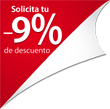
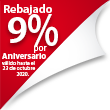
se pone otro imatgen descuento

diff --git a/public/assets/js/pages/products.js b/public/assets/js/pages/products.js
@@ -182,32 +182,17 @@ function reloadProducts() {
         $.each(response, function (i,e) {
             var discount = "";
             if(e.hasOwnProperty('discount')){
-                discount = '<div class="ribbon ribbon-top-right" style="display: block"><span>Oferta</span></div>';
+                // discount = '<div class="ribbon ribbon-top-right" style="display: block"><span>Oferta</span></div>';
+                discount=  '<img src="'+ruta+'assets/images/otros/9aniospestania.png" style="width: 80px;position: absolute;top: 0;left: 0;">';
             }
             var dNone = "";
             if(i>7){
                 dNone = "d-none";
             }
-       /*     var item = '<div class="card shadow-sm product-item col-sm-6 col-md-4 col-lg-3 p-0 mt-2 '+dNone+'" style="border-radius: 5px;overflow: hidden;">' +
+            var item = '<div class="card shadow-sm product-item col-sm-6 col-md-4 col-lg-3 p-0 mt-2 '+dNone+'" style="border-radius: 5px;overflow: hidden;">' +
                 '                                <a href="'+ruta+'catalogo/'+e.brand.toLowerCase().replace(" ", "-")+'/'+e.productType.toLowerCase()+'-'+e.brand.toLowerCase().replace(" ", "-")+'-'+e.mpn.toLowerCase()+'">' +
                 '                                    ' + discount +
                 '                                    <div class="product-image" style="height: 205px">' +
-                '                                        <img style="max-width: 80%; max-height: 100%;"' +
-                '                                             src="'+ruta+e.images[0].medium+'"' +
-                '                                             title="'+e.name+'" alt="'+e.name+'">' +
-                '                                    </div>';*/
-            var item = '<div class="card shadow-sm product-item col-sm-6 col-md-4 col-lg-3 p-0 mt-2 '+dNone+'" style="border-radius: 5px;overflow: hidden;">' +
-                '                                <a href="'+ruta+'catalogo/'+e.brand.toLowerCase().replace(" ", "-")+'/'+e.productType.toLowerCase()+'-'+e.brand.toLowerCase().replace(" ", "-")+'-'+e.mpn.toLowerCase()+'">' ;
-               if(e.brand =='Honda' && e.productType =='Motobomba') {
-                   var mpnsub =e.mpn.substring(0, 2);
-                   if (mpnsub != 'WB' && mpnsub != 'WL'){
-                       item +=  '<img src="'+ruta+'assets/images/otros/9aniospestania.png" style="width: 80px;position: absolute;top: 0;left: 0;">';
-                   }
-               }else{
-                   item +=  '<img src="'+ruta+'assets/images/otros/9aniospestania.png" style="width: 80px;position: absolute;top: 0;left: 0;">';
-               }
-
-            item += '                                    <div class="product-image" style="height: 205px">' +
                 '                                        <img style="max-width: 80%; max-height: 100%;"' +
                 '                                             src="'+ruta+e.images[0].medium+'"' +
                 '                                             title="'+e.name+'" alt="'+e.name+'">' +

diff --git a/resources/views/pages/products.blade.php b/resources/views/pages/products.blade.php
@@ -138,9 +138,9 @@
                                             <span>Oferta</span>
                                         </div>
                                     @endif--}}
-                          {{--          @if(isset($item['discount']))
-                                        <img src="{{ asset('assets/images/otros/9aniospestania.png') }}" style="width: 80px;position: absolute;top: 0;left: 0;">
-                                    @endif--}}
+                                    @if(isset($item['discount']))
+                                        <img src="{{ asset('assets/images/otros/9aniospestania.png') }}" style="width: 85px;position: absolute;top: 0;left: 0;">
+                                    @endif
                                     <div class="product-image" style="height: 205px">
                                         <img style="max-width: 80%; max-height: 100%"
                                              src="{{asset($item['images'][0]['medium'])}}"
@@ -313,9 +313,9 @@
                                         <div class="ribbon ribbon-top-right" style="display: block"><span>Oferta</span>
                                         </div>
                                     @endif--}}
-              {{--                      @if(isset($item['discount']))
-                                        <img src="{{ asset('assets/images/otros/9aniospestania.png') }}" style="width: 80px;position: absolute;top: 0;left: 0;">
-                                    @endif--}}
+                                    @if(isset($item['discount']))
+                                        <img src="{{ asset('assets/images/otros/9aniospestania.png') }}" style="width: 85px;position: absolute;top: 0;left: 0;">
+                                    @endif
                                     <div class="product-image" style="height: 205px">
                                         <img style="max-width: 80%; max-height: 100%"
                                              src="{{asset($item['images'][0]['medium'])}}"

diff --git a/resources/views/pages/product.blade.php b/resources/views/pages/product.blade.php
@@ -62,9 +62,9 @@
                        {{--     @if($product['discount'] == 'Oferta')
                                 <div class="ribbon ribbon-top-right" style="display: block;z-index: 6"><span>Oferta</span></div>
                             @endif--}}
-                     {{--       @if($product['discount'] == 'Oferta')
+                            @if($product['discount'] == 'Oferta')
                                 <img src="{{ asset('assets/images/otros/9aniospestania.png') }}" style="width:110px;position: absolute;top: 0;left: 0;z-index:1;">
-                            @endif--}}
+                            @endif
 
                             <div class="product-image" id="div-img-product">
                                 <img style="max-width: 100%" id="drift-trigger"
@@ -283,9 +283,9 @@
                                           {{--  @if($related['discount'] == 'Oferta')
                                                 <div class="ribbon ribbon-top-right" style="display: block;position: relative;z-index: 6"><span>Oferta</span></div>
                                             @endif--}}
-                             {{--               @if($related['discount'] == 'Oferta')
+                                            @if($related['discount'] == 'Oferta')
                                                 <img src="{{ asset('assets/images/otros/9aniospestania.png') }}" style="width: 80px;position: absolute;top: 0;left: 0;z-index:1;">
-                                            @endif--}}
+                                            @endif
                                             <div class="product-image img-container" style="height: 205px;">
                                                 <img style="max-width: 80%;max-height: 80%"
                                                      src="{{asset($related['images'][0]['small'])}}"
